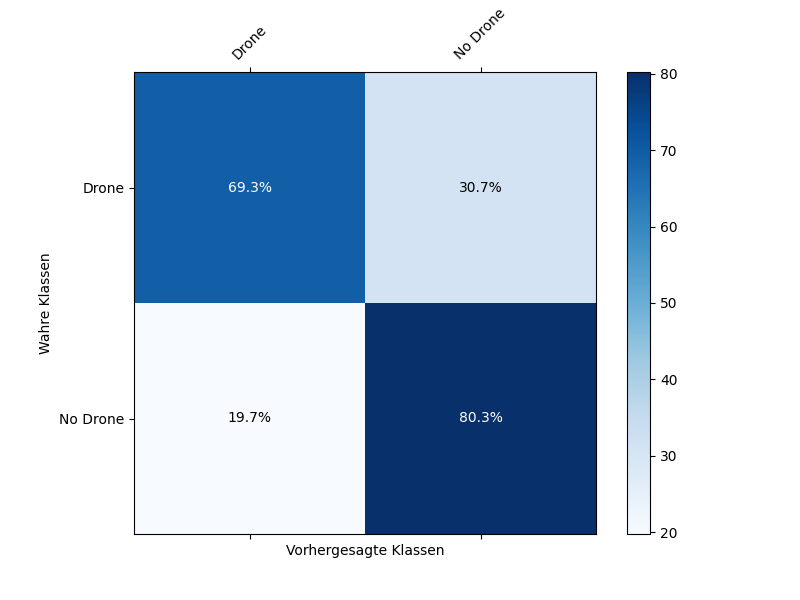
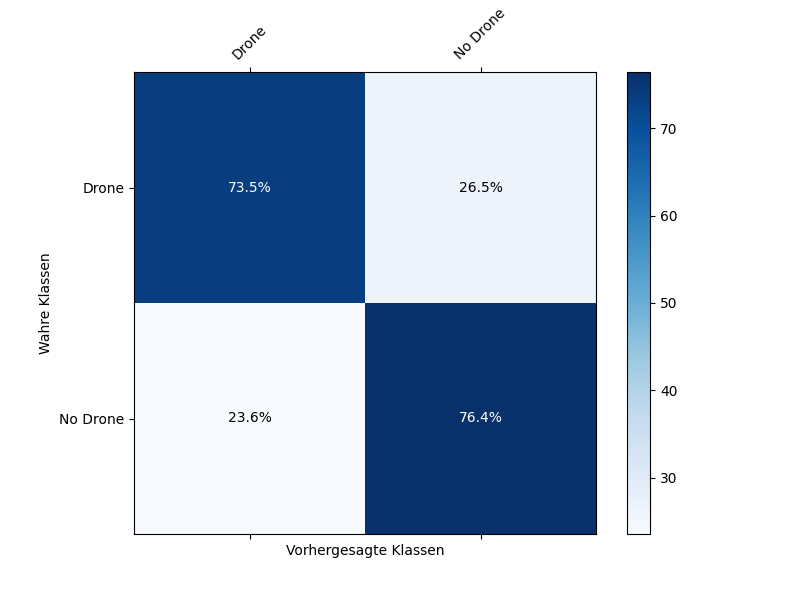
Einigermaßen ausgewogener Klassifizierer mit je 75 % Positivrate

diff --git a/src/drone_classifier.py b/src/drone_classifier.py
@@ -122,21 +122,26 @@ class DroneClassifier:
         print(X_val.shape)  # Erwartet (N,128,128); predict hebt auf (N,128,128,1)
         y_pred_prob = self.predict(X_val).ravel()
         # Threshold-Suche: F1(drone=1) maximieren
-        from sklearn.metrics import f1_score, classification_report, confusion_matrix
+        from sklearn.metrics import f1_score, classification_report, confusion_matrix, accuracy_score
         ts = np.linspace(0.05, 0.95, 19)
-        scores = []
+        best_t, best_macro = 0.5, -1.0
         for t in ts:
             y_hat = (y_pred_prob >= t).astype(int)
-            scores.append((f1_score(y_val, y_hat, pos_label=1), t))
-        best_f1, best_t = max(scores, key=lambda z: z[0])
+            f1_pos = f1_score(y_val, y_hat, pos_label=1)
+            f1_neg = f1_score(1 - y_val, 1 - y_hat, pos_label=1)  # F1 für no-drone
+            macro = 0.5 * (f1_pos + f1_neg)
+            if macro > best_macro:
+                best_macro, best_t = macro, t
         y_pred = (y_pred_prob >= best_t).astype(int)
-        print(f"Best threshold (drone=pos): {best_t:.3f} | F1(drone): {best_f1:.3f}")
+        acc = accuracy_score(y_val, y_pred)
+        print(f"Best threshold (macro-F1): {best_t:.3f} | macro-F1: {best_macro:.3f} | acc: {acc:.3f}")
 
         # Confusion Matrix
         cm = confusion_matrix(y_val, y_pred, labels=[0,1])
         plot_confusion_matrix(cm)
         plot_probability_distribution(y_pred_prob)
         print(classification_report(y_val, y_pred, target_names=['no drone (0)','drone (1)'], digits=3))
+        return acc
 
 class TrainerPipeline:
     """
@@ -178,8 +183,8 @@ class TrainerPipeline:
             X_val, y_val     = val_data.chunk_and_label()
 
             # Augmentiere nur das Train-Set:
-            # realistische Noise-Mischung aus echten "no drone"-Chunks der Validierung
-            noise_pool = [x for x, lbl in zip(X_val, y_val) if str(lbl).lower() in ("no drone","no_drone","no-drone","0","nd")]
+            # Noise-Mischung NUR aus "no drone"-Chunks des TRAINING-SETS (keine Val-Daten in Training!)
+            noise_pool = [x for x, lbl in zip(X_train, y_train) if str(lbl).lower() in ("no drone","no_drone","no-drone","0","nd")]
             X_train = apply_augmentations(
                 X_train, self.config['sample_rate'],
                 noise_pool=noise_pool, snr_range=(0,20), p_noise=0.9

diff --git a/src/augmentations.py b/src/augmentations.py
@@ -210,7 +210,8 @@ def apply_augmentations(chunk, sample_rate, noise_pool=None, snr_range=(0, 20), 
     num_signals, signal_length = chunk.shape  # Anzahl der Signale und Länge der Zeitreihe
     augmented_chunk = np.zeros_like(chunk, dtype=np.float32)  # Speicher für augmentierte Daten
 
-    for i in tqdm(range(num_signals), desc="Augmenting Audio", unit="signals"):
+    # for i in tqdm(range(num_signals), desc="Augmenting Audio", unit="signals"):
+    for i in range(num_signals):  # tqdm im Notebook optional halten
         sig = chunk[i]
         # 1) optionaler Noise-Mix (macht RAR realistischer)
         if noise_pool and random.random() < p_noise:

diff --git a/src/featureExtraction.py b/src/featureExtraction.py
@@ -24,6 +24,7 @@ def extract_features(audio_files, max_length=128, message="Processing features",
             y=audio, sr=sr, n_mels=n_mels, fmax=fmax, hop_length=hop_length
         )
         feature = librosa.power_to_db(mel_spectrogram, ref=np.max)
+        feature = np.nan_to_num(feature, nan=0.0, posinf=0.0, neginf=0.0)
 
         # SpecAugment (nur im Training): kleine Time/Freq-Masks
         if is_training:

diff --git a/src/training.py b/src/training.py
@@ -145,7 +145,7 @@ def train_classifier(train_features, y_train, val_features, y_val,
     # Kompilieren des Modells
     model.compile(
         optimizer=optimizer,
-        loss=tf.keras.losses.BinaryCrossentropy(),
+        loss=tf.keras.losses.BinaryCrossentropy(label_smoothing=0.02),
         metrics=[
             tf.keras.metrics.AUC(name="auc"),
             tf.keras.metrics.AUC(curve="PR", name="auprc"),
